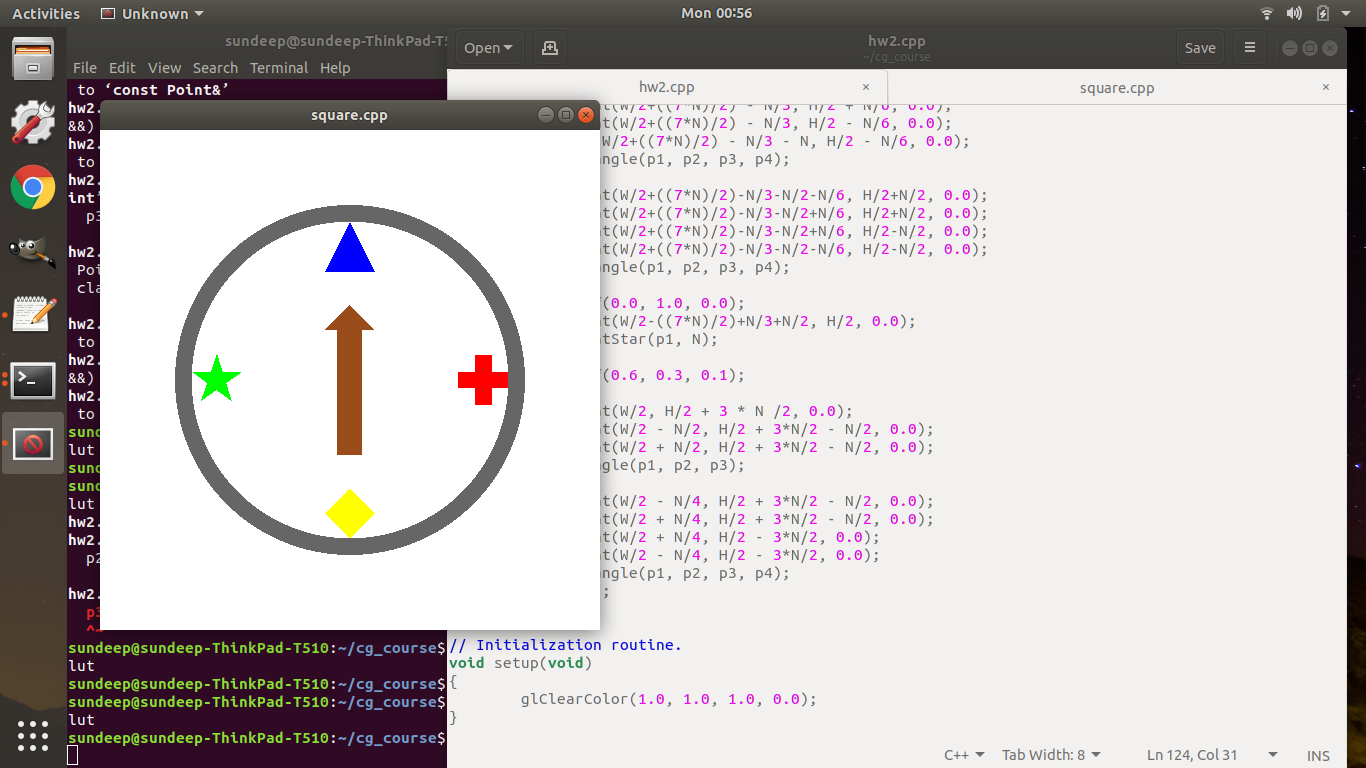
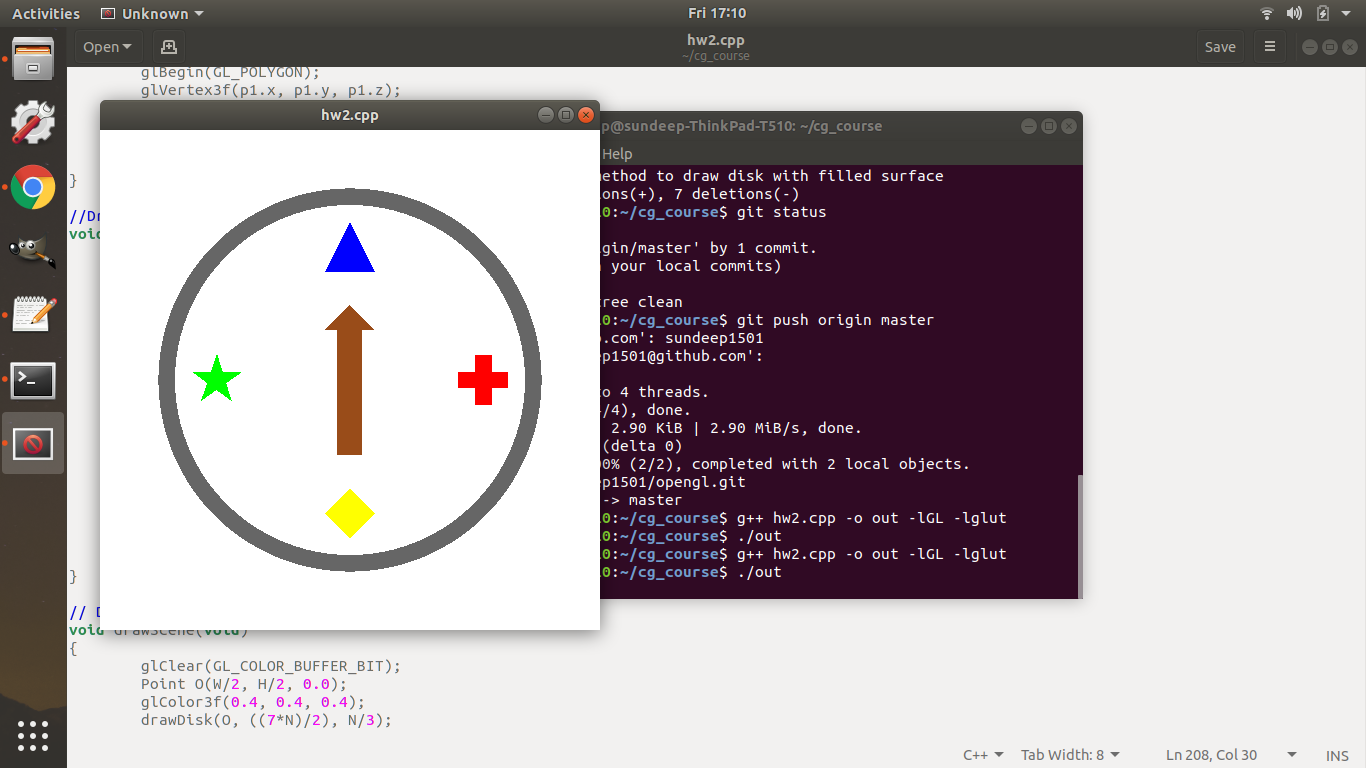
update window name

diff --git a/hw2.cpp b/hw2.cpp
@@ -205,7 +205,7 @@ int main(int argc, char **argv)
 	glutInitWindowSize(500, 500);
 	glutInitWindowPosition(100, 100);
 
-	glutCreateWindow("square.cpp");
+	glutCreateWindow("hw2.cpp");
 
 	glutDisplayFunc(drawScene);
 	glutReshapeFunc(resize);
